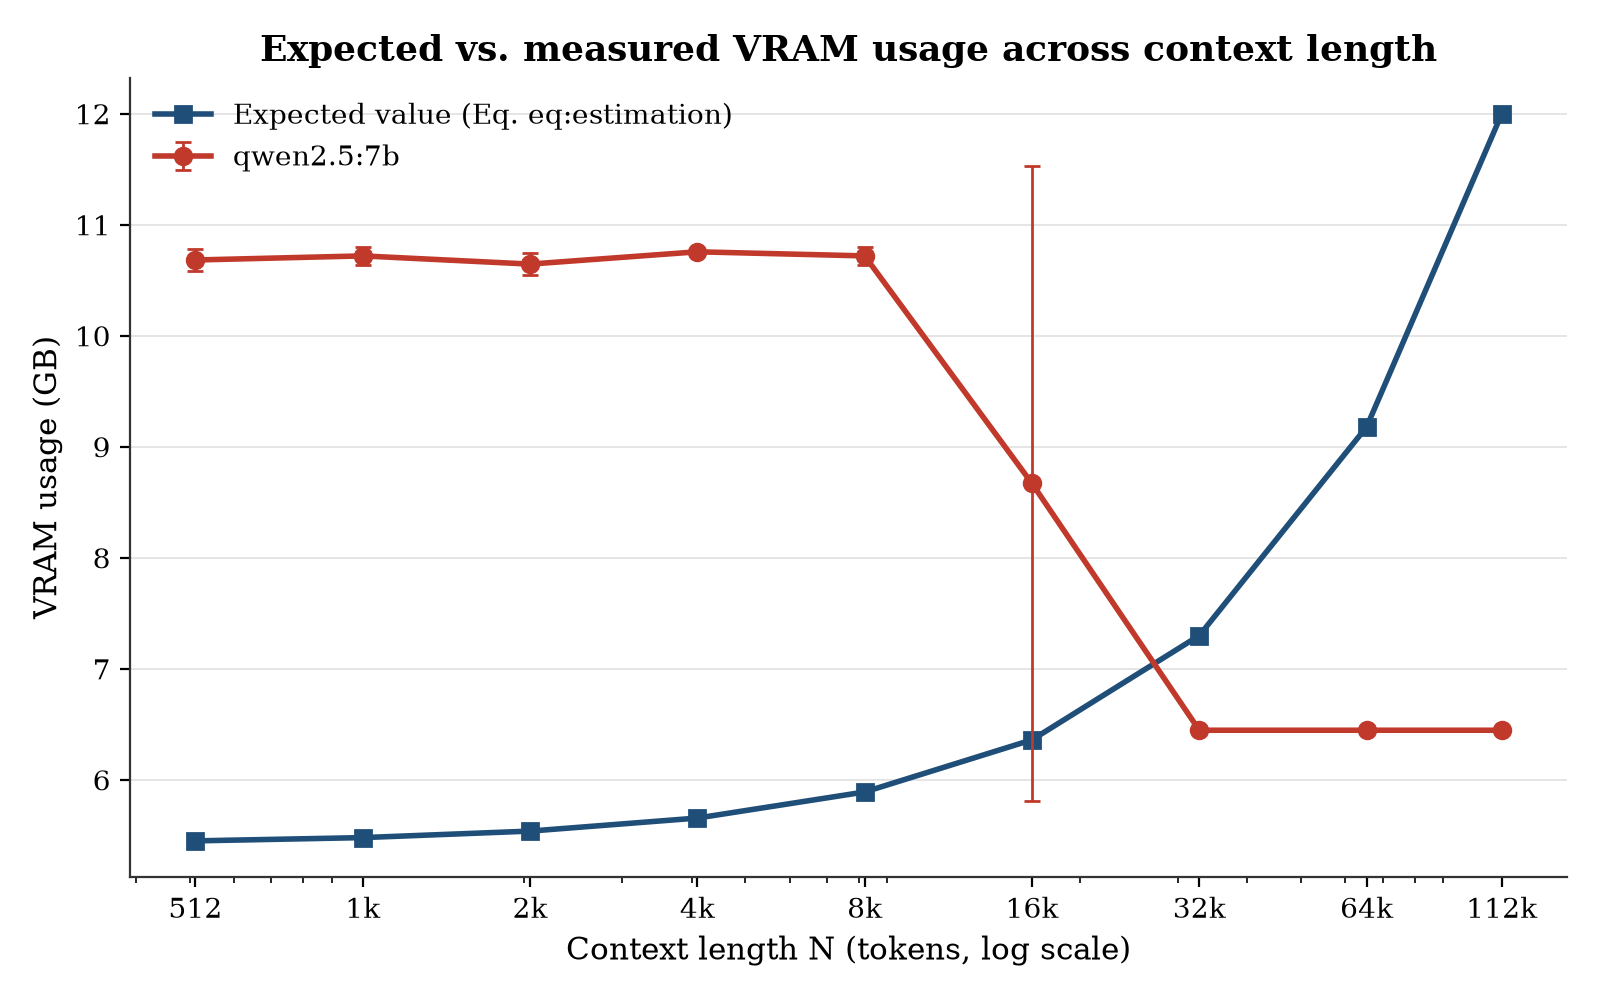
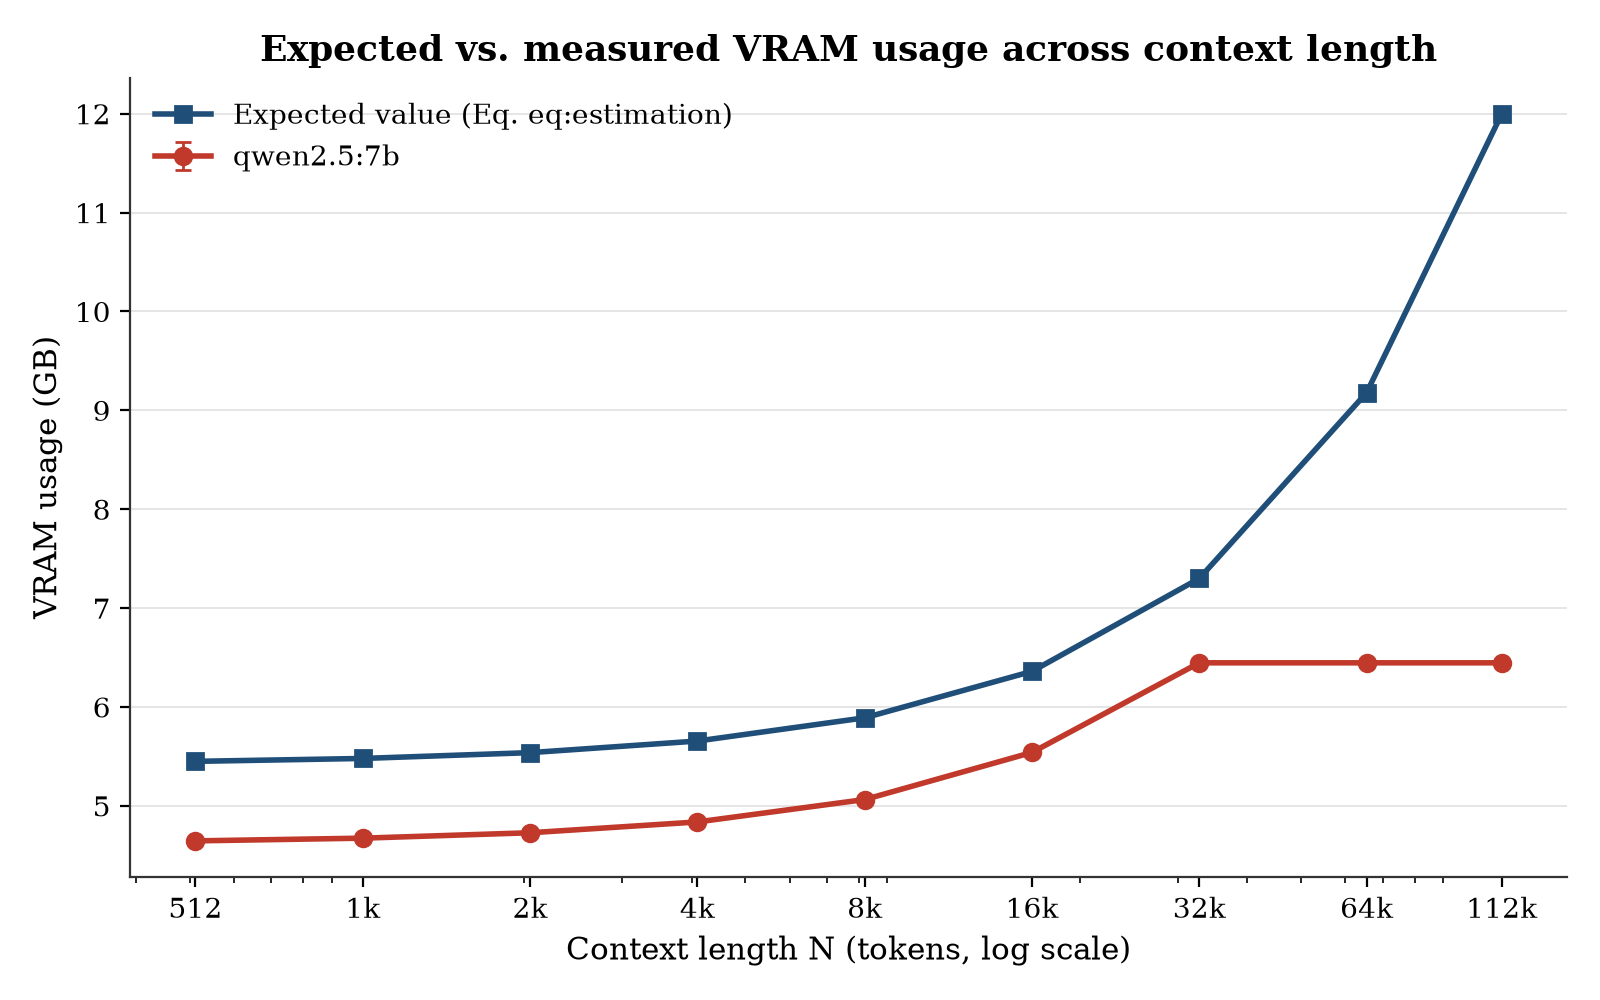
qwen2.5

diff --git a/results/rq4/csvs/qwen2.5_7b/rq4_summary_table.tex b/results/rq4/csvs/qwen2.5_7b/rq4_summary_table.tex
@@ -4,12 +4,12 @@
 \toprule
 $N$ (tokens) & Predicted (GB) & Measured (GB) & Error (\)) \\
 \midrule
-512 & 5.45 & 10.68 \pm 0.10 & +96.01 \\
-1,024 & 5.48 & 10.72 \pm 0.08 & +95.63 \\
-2,048 & 5.54 & 10.65 \pm 0.10 & +92.23 \\
-4,096 & 5.66 & 10.76 \pm 0.00 & +90.19 \\
-8,192 & 5.89 & 10.72 \pm 0.08 & +81.98 \\
-16,384 & 6.36 & 8.67 \pm 2.86 & +36.32 \\
+512 & 5.45 & 4.65 \pm 0.00 & -14.76 \\
+1,024 & 5.48 & 4.67 \pm 0.00 & -14.71 \\
+2,048 & 5.54 & 4.73 \pm 0.00 & -14.63 \\
+4,096 & 5.66 & 4.84 \pm 0.00 & -14.47 \\
+8,192 & 5.89 & 5.06 \pm 0.00 & -14.04 \\
+16,384 & 6.36 & 5.54 \pm 0.00 & -12.89 \\
 32,768 & 7.30 & 6.45 \pm 0.00 & -11.69 \\
 65,536 & 9.18 & 6.45 \pm 0.00 & -29.77 \\
 114,688 & 12.00 & 6.45 \pm 0.00 & -46.27 \\
